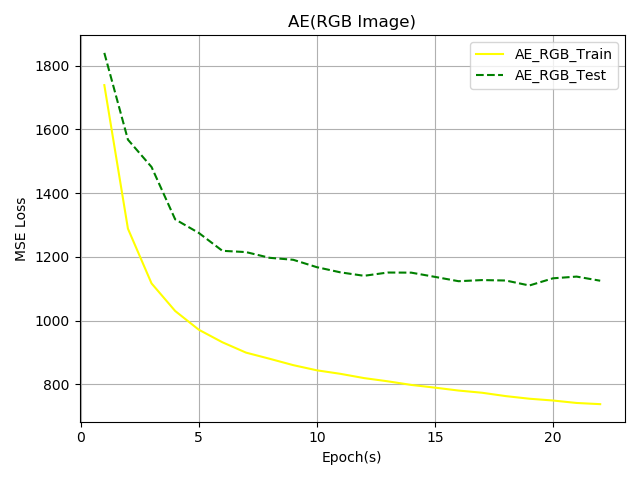
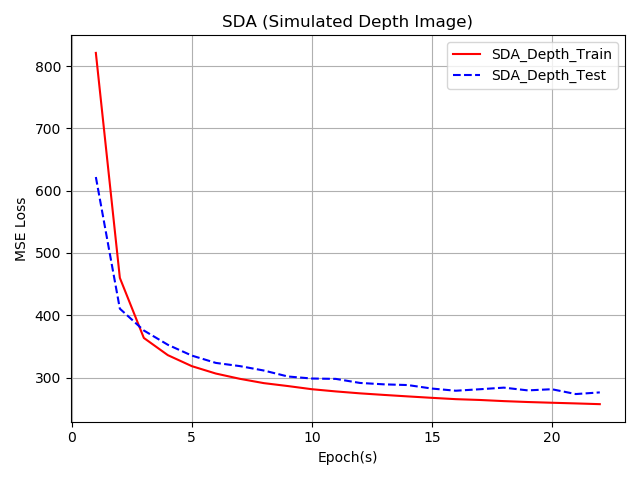
Update SSIM and Training Method (and some other stuff)

diff --git a/Main.py b/Main.py
@@ -378,45 +378,51 @@ if __name__ == '__main__':
     print("We have our Marvel Initiatives Started")
     epoch=22
     epochs=10
-    #Normalization.Normalization(cloth_lstm_loader_c)
-    #clean_net=torch.load(path_clean)
-    #noise_net=torch.load(path_noise)
-    #second_clean=torch.load(path_second)
-    #clean_net=Discriminator_and_Generator_Training_clean.train(net_opt,cloth_loader,cloth_test_loader,opt.batch_size,epoch ,opt.lr,device,opt.AutoEncoder_Type)
-    #torch.save(clean_net,path_clean)
-    #noise_net=Discriminator_and_Generator_Training_noise.train(net_opt,cloth_loader,cloth_test_loader,opt.batch_size,epoch ,opt.lr,device,opt.AutoEncoder_Type)
-    #torch.save(noise_net,path_noise)
-    #second_clean=Discriminator_and_Generator_second_clean.train(noise_net,clean_net,net_sec,cloth_loader,cloth_test_loader,opt.batch_size,epoch ,opt.lr,device,opt.AutoEncoder_Type)
-    #torch.save(second_clean,path_second)
-    #net=Discriminator_and_Generator_Training.train(net_opt,cloth_loader,cloth_test_loader,opt.batch_size,epochs,opt.lr,device,opt.AutoEncoder_Type)
-    #torch.save(net,path)
+    """
+    clean_net=torch.load(path_clean)
+    noise_net=torch.load(path_noise)
+    second_clean=torch.load(path_second)
+    clean_net=Discriminator_and_Generator_Training_clean.train(net_opt,cloth_loader,cloth_test_loader,opt.batch_size,epoch ,opt.lr,device,opt.AutoEncoder_Type)
+    torch.save(clean_net,path_clean)
+    noise_net=Discriminator_and_Generator_Training_noise.train(net_opt,cloth_loader,cloth_test_loader,opt.batch_size,epoch ,opt.lr,device,opt.AutoEncoder_Type)
+    torch.save(noise_net,path_noise)
+    second_clean=Discriminator_and_Generator_second_clean.train(noise_net,clean_net,net_sec,cloth_loader,cloth_test_loader,opt.batch_size,epoch ,opt.lr,device,opt.AutoEncoder_Type)
+    torch.save(second_clean,path_second)
+    """
+    """
+    net=Discriminator_and_Generator_Training.train(net_opt,cloth_loader,cloth_test_loader,opt.batch_size,epochs,opt.lr,device,opt.AutoEncoder_Type)
+    torch.save(net,path)
+    """
 #############LSTM Training#######################
     net=torch.load(path)
-    #for n in range(len(clean_net)):
-    #    frozon_and_free_Get.frozon_Param(clean_net[n])
-    #for n in range(len(noise_net)):
-    #    frozon_and_free_Get.frozon_Param(noise_net[n])
-    #for n in range(len(second_clean)):
-    #    frozon_and_free_Get.frozon_Param(second_clean[n])
+    """
+    for n in range(len(clean_net)):
+        frozon_and_free_Get.frozon_Param(clean_net[n])
+    for n in range(len(noise_net)):
+        frozon_and_free_Get.frozon_Param(noise_net[n])
+    for n in range(len(second_clean)):
+        frozon_and_free_Get.frozon_Param(second_clean[n])
+    """
     for n in range(len(net)):
         frozon_and_free_Get.frozon_Param(net[n])
-    #model_one=LSTM_Training_Step1.train(model,epoch,cloth_lstm_train_loader,net,opt.lr,opt.batch_size,device,opt.AutoEncoder_Type)
-    #model_one=LSTM_Training_No_Label_Step1.train(model,epoch,cloth_lstm_train_loader,net,opt.lr,opt.batch_size,device,opt.AutoEncoder_Type)
-    #torch.save(model_one,lstm_path)
+    model_one=LSTM_Training_Step1.train(model,epoch,cloth_lstm_train_loader,net,opt.lr,opt.batch_size,device,opt.AutoEncoder_Type)
+    """
+    model_one=LSTM_Training_No_Label_Step1.train(model,epoch,cloth_lstm_train_loader,net,opt.lr,opt.batch_size,device,opt.AutoEncoder_Type)
+    torch.save(model_one,lstm_path)
     models=torch.load(step1_path)
     frozon_and_free_Get.frozon_Param(models)
     model=LSTM_Training_Label_Step.train(models,epochs,cloth_lstm_loader_c,net,opt.lr,opt.batch_size,device,opt.AutoEncoder_Type,opt.index_column,path_step1_c,classifier)
-    #Classifier_Training=Classifier_Training.train(model,epochs,cloth_lstm_loader_classifier,net,opt.lr,opt.batch_size,device,opt.AutoEncoder_Type,opt.index_column,path_classifier,classifier)
-    #classifier_trained=torch.load(path_classifier)
-    #frozon_and_free_Get.free_Param(classifier)
-    #model_LSTM=LSTM_Training_Step1_classifier.train(model,epoch,cloth_lstm_loader_c,net,opt.lr,opt.batch_size,device,opt.AutoEncoder_Type,opt.index_column,path_step1_c,classifier)
-    #model_one_classifier=Classifier_Training.train(model,epoch,cloth_lstm_loader,net,opt.lr,opt.batch_size,device,opt.AutoEncoder_Type,opt.index_column,path_step1_c,classifier)
-    #model_one_classifier_clean=LSTM_Training_Step1_clean.train(models,epochs,cloth_lstm_loader_c,noise_net,second_clean,opt.lr,opt.batch_size,device,opt.AutoEncoder_Type,opt.index_column,path_step1_c,classifier)
-    #model_one=torch.load(path_step1)
-    #model_one_classifier=torch.load(path_step1_c)
-    #frozon_and_free_Get.frozon_Param(model_one)
-    #frozon_and_free_Get.free_Param(model_one_classifier)
-    #Test_for_the_Next_Two_Frames.train(model_one,test_original_textured,net,device,opt.AutoEncoder_Type)
+    Classifier_Training=Classifier_Training.train(model,epochs,cloth_lstm_loader_classifier,net,opt.lr,opt.batch_size,device,opt.AutoEncoder_Type,opt.index_column,path_classifier,classifier)
+    classifier_trained=torch.load(path_classifier)
+    frozon_and_free_Get.free_Param(classifier)
+    model_LSTM=LSTM_Training_Step1_classifier.train(model,epoch,cloth_lstm_loader_c,net,opt.lr,opt.batch_size,device,opt.AutoEncoder_Type,opt.index_column,path_step1_c,classifier)
+    model_one_classifier=Classifier_Training.train(model,epoch,cloth_lstm_loader,net,opt.lr,opt.batch_size,device,opt.AutoEncoder_Type,opt.index_column,path_step1_c,classifier)
+    model_one_classifier_clean=LSTM_Training_Step1_clean.train(models,epochs,cloth_lstm_loader_c,noise_net,second_clean,opt.lr,opt.batch_size,device,opt.AutoEncoder_Type,opt.index_column,path_step1_c,classifier)
+    model_one=torch.load(path_step1)
+    model_one_classifier=torch.load(path_step1_c)
+    frozon_and_free_Get.frozon_Param(model_one)
+    frozon_and_free_Get.free_Param(model_one_classifier)
+    Test_for_the_Next_Two_Frames.train(model_one,test_original_textured,net,device,opt.AutoEncoder_Type)
 ###########Thank you, Marvel ####################
 ###########I love you three thousand ############
 ###########Viva Marvel ##########################

diff --git a/Tool/pytorch_ssim/__init__.py b/Tool/pytorch_ssim/__init__.py
@@ -1,0 +1,73 @@
+import torch
+import torch.nn.functional as F
+from torch.autograd import Variable
+import numpy as np
+from math import exp
+
+def gaussian(window_size, sigma):
+    gauss = torch.Tensor([exp(-(x - window_size//2)**2/float(2*sigma**2)) for x in range(window_size)])
+    return gauss/gauss.sum()
+
+def create_window(window_size, channel):
+    _1D_window = gaussian(window_size, 1.5).unsqueeze(1)
+    _2D_window = _1D_window.mm(_1D_window.t()).float().unsqueeze(0).unsqueeze(0)
+    window = Variable(_2D_window.expand(channel, 1, window_size, window_size).contiguous())
+    return window
+
+def _ssim(img1, img2, window, window_size, channel, size_average = True):
+    mu1 = F.conv2d(img1, window, padding = window_size//2, groups = channel)
+    mu2 = F.conv2d(img2, window, padding = window_size//2, groups = channel)
+
+    mu1_sq = mu1.pow(2)
+    mu2_sq = mu2.pow(2)
+    mu1_mu2 = mu1*mu2
+
+    sigma1_sq = F.conv2d(img1*img1, window, padding = window_size//2, groups = channel) - mu1_sq
+    sigma2_sq = F.conv2d(img2*img2, window, padding = window_size//2, groups = channel) - mu2_sq
+    sigma12 = F.conv2d(img1*img2, window, padding = window_size//2, groups = channel) - mu1_mu2
+
+    C1 = 0.01**2
+    C2 = 0.03**2
+
+    ssim_map = ((2*mu1_mu2 + C1)*(2*sigma12 + C2))/((mu1_sq + mu2_sq + C1)*(sigma1_sq + sigma2_sq + C2))
+
+    if size_average:
+        return ssim_map.mean()
+    else:
+        return ssim_map.mean(1).mean(1).mean(1)
+
+class SSIM(torch.nn.Module):
+    def __init__(self, window_size = 11, size_average = True):
+        super(SSIM, self).__init__()
+        self.window_size = window_size
+        self.size_average = size_average
+        self.channel = 1
+        self.window = create_window(window_size, self.channel)
+
+    def forward(self, img1, img2):
+        (_, channel, _, _) = img1.size()
+
+        if channel == self.channel and self.window.data.type() == img1.data.type():
+            window = self.window
+        else:
+            window = create_window(self.window_size, channel)
+            
+            if img1.is_cuda:
+                window = window.cuda(img1.get_device())
+            window = window.type_as(img1)
+            
+            self.window = window
+            self.channel = channel
+
+
+        return _ssim(img1, img2, window, self.window_size, channel, self.size_average)
+
+def ssim(img1, img2, window_size = 11, size_average = True):
+    (_, channel, _, _) = img1.size()
+    window = create_window(window_size, channel)
+    
+    if img1.is_cuda:
+        window = window.cuda(img1.get_device())
+    window = window.type_as(img1)
+    
+    return _ssim(img1, img2, window, window_size, channel, size_average)

diff --git a/Train/LSTM_Training_Step1.py b/Train/LSTM_Training_Step1.py
@@ -1,24 +1,17 @@
 import torch
-import torch.random as random_torch
 import random
-import statistics as statistics
 from statistics import mean as mean_stat
-from statistics import stdev as stdev
 import os
 import torch.nn as nn
 import torch.optim as optim
-from torchvision.transforms import transforms as transforms
 from torchvision.utils import save_image
 import matplotlib.pyplot as plt
 import time
-from Model import LSTM
-import numpy as np
 import pandas as pd
 from Tool import SelfNoise
 from torch.autograd import Variable
-from Model import Classifier
 from sklearn.preprocessing import LabelBinarizer
-import csv
+from Tool import pytorch_ssim as ssim_loss
 
 
 
@@ -47,6 +40,7 @@ def train(models,epochs,mario_lstm_loader,net,lr,batch_size,device,AutoEncoder_T
     save_figure_lstm='./data/figure/'
     if not os.path.exists(save_figure_lstm):
         os.makedirs(save_figure_lstm)
+    ssim=ssim_loss.SSIM()
     
     """
     Data Preperation Period
@@ -103,9 +97,10 @@ def train(models,epochs,mario_lstm_loader,net,lr,batch_size,device,AutoEncoder_T
                 inputs_lstm=models(inputs_encor,device)
                 inputs_out=inputs_lstm.view(-1,64,32,32)
                 inputs_decor=net.decoder(inputs_out)
-                loss_function=loss_fn_step1(target,inputs_decor)
+                loss_function=-ssim(target,inputs_decor)
                 loss_function.backward()
-                total_loss.append(loss_function.item())
+                ssim_value=-loss_function.data[0]
+                total_loss.append(ssim_value)
                 optimiser_step1.step()
                 if ((i+1)%(len(inputs)-4*sequ_length)==1)and((z+1)%(item_time+1)==1):
                     print("[Epochs:%d/%d][Train Time:%d/%d][Duration:%f][Train Loss:%d]"
@@ -132,8 +127,9 @@ def train(models,epochs,mario_lstm_loader,net,lr,batch_size,device,AutoEncoder_T
                 inputs_lstm=models(inputs_encor,device)
                 inputs_out=inputs_lstm.view(-1,64,32,32)
                 inputs_decor=net.decoder(inputs_out)
-                loss_comparison=loss_fn_step1(target,inputs_decor)
-                total_loss.append(loss_comparison.item())
+                ssim_out=-ssim(target,inputs_decor)
+                ssim_value=-ssim_out.data[0]
+                total_loss.append(ssim_value)
                 if((i+1)%(len(inputs)-4*sequ_length)==1) and ((z+1)%(item_time+1)==1):
                     print("[Epochs:%d/%d][Test Time:%d/%d][Duration:%f][Test Loss:%d]"
                         %(n+1,epochs,t+1,len(inputs_randperm_test),time.time()-train_start_time,mean_stat(total_loss)))

diff --git a/Tool/Matrix.py b/Tool/Matrix.py
@@ -3,7 +3,7 @@ from openpyxl import load_workbook
 from matplotlib import pyplot as plt
 import pandas as pd
 
-filename='C:/Users/Li_Duan/Desktop/AE_P1_Second/Tool/Tool_Statistics/Statistics_Table.xlsx'
+filename='C:/Users/Li_Duan/Desktop/LSTM-AutoEncoder/Tool/Tool_Statistics/Statistics_Table.xlsx'
 save_figure='./data/comparison/'
 if not os.path.exists(save_figure):
     os.makedirs(save_figure)
@@ -36,11 +36,9 @@ df=pd.DataFrame({'x':X,'SDA_Depth_Train':SDA_Depth_Train,'SDA_Depth_Test':SDA_De
 
 ax.plot('x','SDA_Depth_Train',data=df,color='red',label='SDA_Depth_Train')
 ax.plot('x','SDA_Depth_Test',data=df,color='blue',label='SDA_Depth_Test', linestyle='dashed')
-ax.plot('x','AE_RGB_Train',data=df,color='yellow',label='AE_RGB_Train')
-ax.plot('x','AE_RGB_Test',data=df,color='green',label='AE_RGB_Test', linestyle='dashed')
 ax.set_xlabel('Epoch(s)')
 ax.set_ylabel('MSE Loss')
-plt.title('AE(RGB Image)')
+plt.title('SDA (Simulated Depth Image)')
 plt.grid(True)
 plt.legend(loc='upper right')
 plt.tight_layout()
